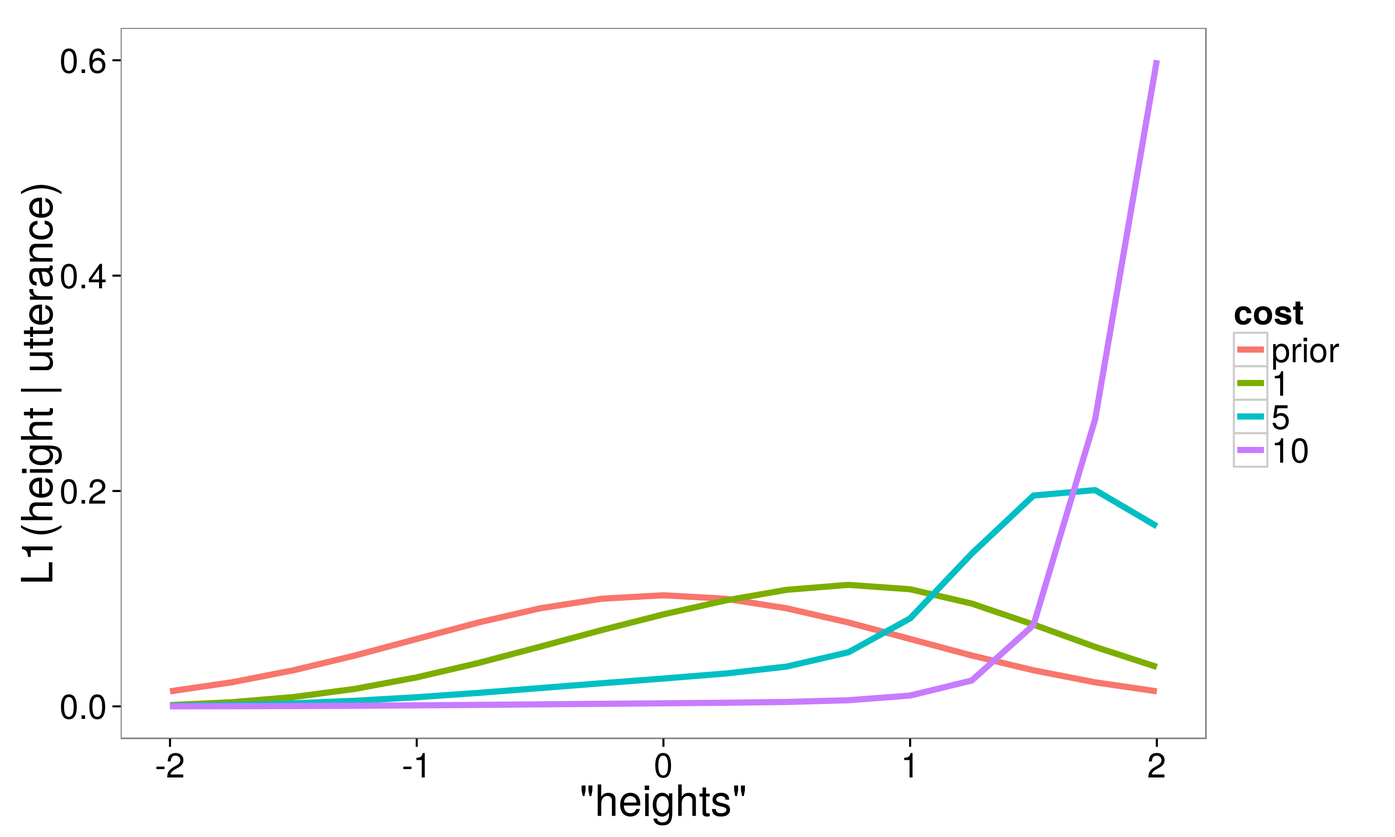
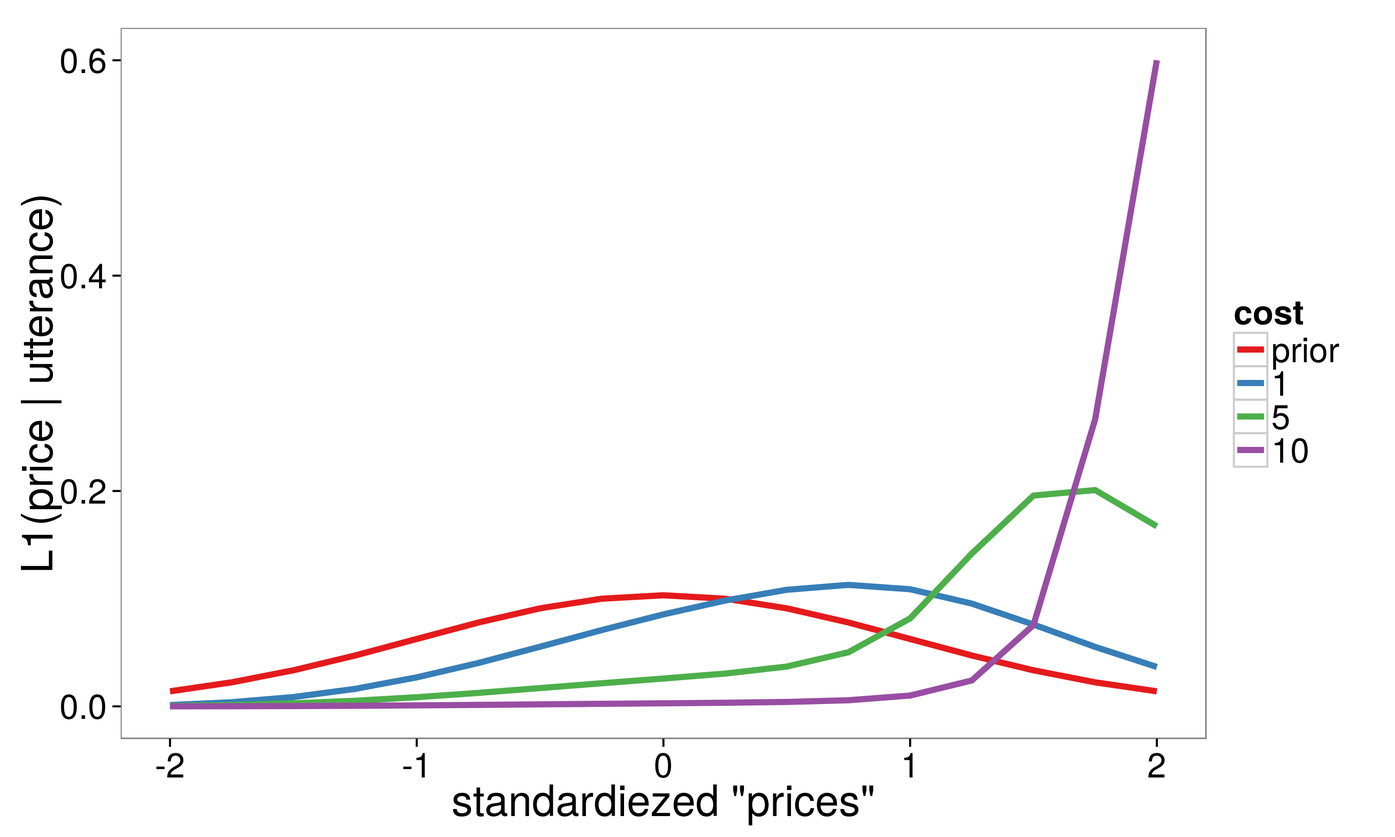
minor edits

diff --git a/writeup/intensifiers.tex b/writeup/intensifiers.tex
@@ -20,15 +20,6 @@
   Department of Psychology, Stanford University.}
   %450 Serra Mall , Stanford, CA 94305}
   
-%% focus more on the details of the different measures
-%% now it's about two correlational studies
-% corpus, elicitation, dependent measures
-% spend more time and flesh out more detail. especially the corpus stuff
-% talking about cost, different measures of cost
-%%% cite molly for length ~ frequency
-
-%%% can get rid of big long table if necessary
-  
 \begin{document}
 
 \maketitle
@@ -38,8 +29,10 @@
 We show how the wide range in strengths of intensifying degree adverbs (e.g.~\w{very} and \w{extremely}) could be explained by pragmatic inference based on differing cost, rather than differing semantics.
 This predicts a linear relationship between the meaning of intensifiers and their length and log-frequency.
 We test this prediction in two studies, using two different dependent measures, finding that higher cost does predict stronger meanings.
-We discuss the implications for adverbial meaning and the more general question of how extensive non-arbitrary form-meaning association may be in language.
-
+We discuss the implications for
+% what does this mean?
+adverbial meaning
+and the more general question of how extensive non-arbitrary form-meaning association may be in language.
 
 \textbf{Keywords:} 
 intensifiers; degree adverbs; scalar adjectives; pragmatics; m-implicature
@@ -48,7 +41,6 @@ intensifiers; degree adverbs; scalar adjectives; pragmatics; m-implicature
 \section{Introduction}
 
 How do different words get their meanings?
-%say something about the shared semantics and nuanced differences among members of the broad class of intensifiers at the outset
 For instance, why is an ``extremely good paper'' better than a ``quite good paper''? The traditional answer \cite{saussure} is that different meanings have been arbitrarily and conventionally assigned to the different word forms.
 This view has been challenged by a number of examples in which word meaning appears to be non-arbitrarily related to properties of the word.
 In some cases, the phonetic form of a word is systematically related to its meaning, for example rounded vowels and voiced consonants tend to refer to round objects \cite{maluma-takete, bouba-kiki, bouba-kiki2, takete-uloomo}. 
@@ -56,7 +48,7 @@ In other cases, orthographic form is diagnostic of meaning, for example, speaker
 Similarly, the length of words predicts aspects of their meanings: across languages longer words refer to more complex meanings \cite{lewis}.
 In this paper, we explore adjectival intensifiers\footnote{Intensifiers are adverbs that modify scalar adjectives to increase the degree. The word ``intensifier'' is often used to denote the full range of degree adverbs, be they ``amplifiers'', or ``downtoners'' \cite{quirk}. The ``intensifiers'' we are looking at in this paper are, according to this typology, ``amplifiers'' because they increase (rather than decrease) the threshold associated with a gradable predicate. This typology also distinguishes between two different kinds of amplifiers: those that increase an adjective maximally (e.g. \w{completely} and \w{utterly}) and those that merely increase (e.g. \w{greatly} and \w{terribly}). We do not make this distinction. The word ``intensifier'' is sometimes used for a completely different linguistic phenomenon, where a reflexive is used for emphasis, e.g. ``The king himself gave the command,'' which we do not analyze in this paper.}, like \w{extremely} and \w{quite},
 as a case study in which to empirically explore the relationship of meaning to factors like word form and distribution of usage.
-Intensifiers form a good case study both because they are amenable to simple quantitative measures of meaning (such as the numeric extent to which they shift the interpretation of a scalar adjective) and because theoretical considerations, which we lay out shortly, suggest a relationship between their meaning and their usage cost---frequency and length.
+Intensifiers form a good case study both because they are amenable to simple quantitative measures of meaning (such as the numeric extent to which they shift the interpretation of a scalar adjective) and because theoretical considerations, which we lay out shortly, suggest a relationship between their meaning and their usage cost (e.g., due to frequency and length).
 
 In the next section we start from the model presented by \citeA{lassiter} to explain the meaning of scalar adjectives, like \emph{tall} and \emph{expensive}. This probabilistic Rational Speech Acts \cite{frank,goodman} model describes how a threshold on meaning (e.g.~the minimum price that counts as an \emph{expensive watch}) can be established by pragmatic inference that takes into account statistical background knowledge (such as the distribution of prices for watches). We explore the effect of having multiple versions of the adjective that have the same meaning but different costs, and find a M(arkedness)-implicature \cite{levinson}: more marked (costly to utter) versions will be interpreted as implicating higher values.
 This motivates the hypothesis that a major portion of the meaning of intensifiers comes from this process rather than from conventionally associated meanings. Concretely, this predicts that the meanings of intensifiers are influenced by their form (in length) and their distribution (frequency) of usage. The impact of word length is reminiscent of the results of \citeA{lewis}, who studied noun categories. While word frequency is known to have major effects on sentence processing \cite[e.g.]{levy}, the prediction that frequency should affect meaning is more novel.
@@ -65,15 +57,14 @@ We confirm, in two experiments, that English intensifiers in adjective phrases a
 
 \section{The semantics of intensifying degree adverbs}
 
-Our paper focuses on intensifying degree adverbs applied to scalar adjectives\footnote{Some of these intensifiers can also apply to verbal and nominal predicates, and different restrictions apply for different intensifiers, e.g. \w{I truly like carrots} is an acceptable utterance, whereas \w{I very like carrots} is not. See \citeA{bolinger} for a discussion.}. Scalar adjectives have been described as having a threshold semantics \cite{kennedy}, where, for example, \w{tall} means ``having a height greater than $\theta$'' and $\theta$ is a semantic variable inferred from context (e.g., six feet). Above the threshold degree $\theta$, the adjective is true of an object, and below, the adjective is false.
-\citeA{lassiter} give a formal model of how this threshold might be inferred, which we extend to intensifiers.
+Our paper focuses on intensifying degree adverbs applied to scalar adjectives\footnote{Some of these intensifiers can also apply to verbal and nominal predicates, and different restrictions apply for different intensifiers, e.g. \w{I truly like carrots} is an acceptable utterance, whereas \w{I very like carrots} is not. See \citeA{bolinger} for a discussion.}. Scalar adjectives have been described as having a threshold semantics \cite{kennedy}, where, for example, \w{expensive} means ``having a price greater than \$$\theta$'' and $\theta$ is a semantic variable inferred from context (e.g., \$100). Above the threshold degree $\theta$, the adjective is true of an object, and below, the adjective is false.
+\citeA{lassiter} give a formal model of how this threshold might be inferred for a particular context, which we extend to intensifiers.
 
 \subsection{Background}
-Previous researchers have proposed that adjective phrases modified by intensifiers have the same semantics as unmodified adjective phrases, except with new, higher thresholds \cite{kennedyMcnally, klein, wheeler}. That is, some threshold, inferred from context, exists above which objects are \w{tall} and below which they are not, and the intensifier \w{very} determines a new, higher threshold for \w{very tall}.
-They suggest that the intensified thresholds are determined by first collecting the set of objects in the comparison class class for which the bare adjective is true, and then using that as the comparison class to infer a new threshold, i.e. \w{very expensive laptop} means ``expensive for an expensive laptop''. This analysis results in the expected intensification of adjectives (``tall, even among tall basketball players'' has a higher threshold for being true than simply ``tall for a basketball player'') and is appropriately sensitive to different domains (e.g. the absolute difference in height between thresholds for \w{tall} and \w{very tall} is much higher in the context of ``This building is very tall,'' than in the context of ``This coffee mug is very tall.'').
-However, this account does not, in and of itself, distinguish between the graded strengths of different intensifiers, for example, \w{very tall} and \w{phenomenally tall}.
+Previous researchers have proposed that adjective phrases modified by intensifiers have the same semantics as unmodified adjective phrases, except with new, higher thresholds \cite{kennedyMcnally, klein, wheeler}. That is, some threshold, inferred from context, exists above which objects are \w{expensive} and below which they are not, and the intensifier \w{very} determines a new, higher threshold for \w{very expensive}.
+They suggest that the intensified thresholds are determined by first collecting the set of objects in the comparison class class for which the bare adjective is true, and then using that as the comparison class to infer a new threshold, i.e. \w{very expensive laptop} means ``expensive for an expensive laptop''. This analysis results in the expected intensification of adjectives (``expensive, even among expensive laptops'' has a higher threshold for being true than simply ``expensive for a laptop'') and is appropriately sensitive to different domains (e.g. the absolute difference in price between thresholds for \w{expensive} and \w{very expensive} is much higher in the context of ``That space station is very expensive,'' than in the context of ``That coffee is very expensive.'').
+However, this account does not, in and of itself, distinguish between the graded strengths of different intensifiers, for example, \w{very expensive} and \w{phenomenally expensive}.
 
-%long, complex, and rare
 Intuition suggests that different intensifiers do have different strengths (e.g. \w{outrageously} seems stronger than \w{quite}), and we provide further evidence of this in our experiments, where participants interperet and compare different intensifiers.
 It could be that the degree of strength of different intensifiers is conventionally specified by the lexicon. But the semantics must then specify how these entries affect the very flexible threshold of the relevant adjective.
 In addition, the multitude of intensifiers \cite{bolinger} and their apparent productivity\footnote{For example, \w{altitidinously expensive} is not in common usage, but one can easily interpret \w{altitidinously} as a novel intensifier.} suggest a more parsimonious solution would be welcome. 
@@ -86,10 +77,11 @@ We show that simply having different thresholds for different adjective phrases-
 
 \subsection{Model}
 
-\citeA{lassiter}'s model belongs to the family of Rational Speech Act (RSA) models in which speaker and listener communicate by recursively reasoning about each other's goals and inferences. These models have been shown to account for many phenomena in pragmatics \cite{frank, goodman}. The adjective movel model accounts for uncertainty about the adjectival threshold by including a lifted semantic variable, which the pragmatic listener infers at the same time that she infers the speaker's intended meaning. 
-We assume every adjective phrase has its own such variable $\theta_i$\footnote{Other versions of this model could easily be imagined in which the threshold for an adjective phrase is determined by the basic threshold for the adjective and some transformation on that threshold (e.g. multiplication, addition, etc.) caused by the intensifier. If the transformation is mostly regular, with a single parameter needing to be inferred for each intensifier, and if the values of these parameters are inferred for each adjective phrase, then such a model would be functionally equivalent to the one we describe here.}, together notated $\vec{\theta}$, but to otherwise mean the same thing, so that, for example, \w{tall}, \w{very tall} and \w{phenomenally tall} all denote: $\lambda x . \text{height}(x) > \theta_i$.
+\citeA{lassiter}'s model belongs to the family of Rational Speech Act (RSA) models in which speaker and listener communicate by recursively reasoning about each other's goals and inferences. These models have been shown to account for many phenomena in pragmatics
+\cite{frank, goodman}. The adjective model accounts for uncertainty about the adjectival threshold by including a lifted semantic variable, which the pragmatic listener infers at the same time that she infers the speaker's intended meaning. 
+We assume every adjective phrase has its own such variable $\theta_i$\footnote{Other versions of this model could easily be imagined in which the threshold for an adjective phrase is determined by the basic threshold for the adjective and some transformation on that threshold (e.g. multiplication, addition, etc.) caused by the intensifier. If the transformation is mostly regular, with a single parameter needing to be inferred for each intensifier, and if the values of these parameters are inferred for each adjective phrase, then such a model would be functionally equivalent to the one we describe here.}, together notated $\vec{\theta}$, but to otherwise mean the same thing, so that, for example, \w{expensive}, \w{very expensive} and \w{phenomenally expensive} all denote: $\lambda x . \text{price}(x) > \theta_i$. %unpack?
 
-Given an utterance $u_i$ (e.g. a \w{tall girl} or a \w{very tall girl}) and a set of thresholds, a literal listener $L_0$ will use Bayesian inference to update their prior beliefs $P(d)$ about the degree $d$ (e.g. the girl's height) given that the degree is greater than the threshold for that utterance.
+Given an utterance $u_i$ (e.g. a \w{expensive laptoop} or a \w{very expensive laptop}) and a set of thresholds, a literal listener $L_0$ will use Bayesian inference to update his prior beliefs $P(d)$ about the degree $d$ (e.g. the laptop's price) given that the degree is greater than the threshold for that utterance.
 
 $$P_{L_0}(d|u_i, \theta_i) \propto P(d) \cdot \delta_{d > \theta_i}$$
 
@@ -97,7 +89,7 @@ A speaker with the goal of communicating some actual degree $d$ assigns a utilit
 
 $$\mathbb{U}(u_i | d, \vec{\theta}) =  \ln\left(P_{L_0}(d | u_i, \theta_i) \right) - C(u_i) $$
 
-Given a set of alternative utterances (e.g. the speaker might be choosing between saying \w{very tall} as opposed to \w{tall} or \w{extremely tall}, or saying nothing at all), the speaker $S_1$ will choose utterances according to a softmax decision rule \cite{sutton} with optimality parameter $\lambda$, so that:
+Given a set of alternative utterances (e.g. the speaker might be choosing between saying \w{very expensive} as opposed to \w{expensive} or \w{extremely expensive}, or saying nothing at all), the speaker $S_1$ will choose utterances according to a softmax decision rule \cite{sutton} with optimality parameter $\lambda$, so that:
 
 $$ P_{S_1}(u_i | d, \vec{\theta}) \propto e^{\lambda \mathbb{U}(u_i | d, \vec{\theta})} $$
 
@@ -105,10 +97,10 @@ A pragmatic listener $L_1$ uses the prior probability, $P(d)$, of different degr
 
 $$ P_{L_1}(d, \vec{\theta} | u_i) \propto P(d) \cdot P_{S_1}(u_i | d, \vec{\theta}) $$
 
-As an initial exploration, we simulated such a model with three alternative adjective phrases (i.e.~three intensifiers) with costs of $1$, $5$, and $10$. We also included a null utterance, with trivial meaning (always true) and cost of $0$. The prior distribution for this domain (which we will discuss as ``heights'' for concreteness) was a gaussian peaked at $0$.
+As an initial exploration, we simulated such a model with three alternative adjective phrases (i.e.~three intensifiers) with costs of $1$, $5$, and $10$. We also included a null utterance, with trivial meaning (always true) and cost of $0$. The prior distribution of degrees along this adjective's scale (which we will discuss as ``prices'' for concreteness and consistency with our Experiment 1) was a gaussian peaked at $0$.
 We used an optimality parameter of $\lambda=5$ in our simulation. 
 
-Though the literal semantics are identical (except that they have different threshold parameters), the different phrases received different interpretations: the more costly intensifiers corresponded to less probable, more extreme heights (Figure ~\ref{model}). This can be seen as an M-implicature: more costly intensifiers are assigned strong, less probable, meanings. 
+Though the literal semantics are identical (except that they have different threshold parameters), the different phrases received different interpretations: the more costly intensifiers corresponded to less probable, more extreme prices (Figure ~\ref{model}). This can be seen as an M-implicature: more costly intensifiers are assigned strong, less probable, meanings. 
 The model therefore predicts an association between intensifier meaning and utterance cost.
 
 \begin{figure}[ht]
@@ -119,59 +111,47 @@ The model therefore predicts an association between intensifier meaning and utte
 \label{model}
 \end{figure}
 
-% 
-% %%%%% make this clearer
-% \subsection{Limitations of these methods}
-% It should be noted that, since this is a correlational study, finding such a relationship would not confirm that an intensifier's cost \emph{actually causes} its meaning. This correlation is predicted by the model sketched above, but it might be predicted by a variety of other analyses of intensifiers and their meanings. Rarity in particular might be correlated with strength of meaning merely because more extreme meanings refer to less probable situations in the world, are talked about less, and therefore the words with those meanings will necessarily be rarer.
-% \todo{maybe people talk about more suprising things more anyway?}
-% \todo{maybe syllables are a reason not to be worried about this?}
-% %Although it seems reasonable to suspect that word frequencies reflect the probabilities of the real-world concepts they describe, it might also be the case that improbable things are more likely to be commented on, and so to a certain extent the frequencies of words that describe rare concepts will be inflated. Even so, this confound exists only for word frequency and not for syllable length.
-% %citation?
-% %The length of a word seems much less likely to reflect the real-word prevalence of the concept it refers to.
 \subsection{Factors affecting utterance cost}
 
-We have identified the intensifier's cost, $C(u_{i})$, as a potentially critical factor of its interpreted meaning. The quantitative form predicted by the model of the relationship between cost and meaning is a approximately linear, as can be read off Figure \ref{model-heights}.
+We have identified the intensifier's cost, $C(u_{i})$, as a potentially critical factor of its interpreted meaning. The quantitative form predicted by the model of the relationship between cost and meaning is a approximately linear, as can be read off Figure \ref{model-heights}\footnote{This second simulation was identical as the first, except run on a more discretized scale for 6 different utterance costs (or ``intensifiers'').}.
 
 To connect this linear prediction to empirical facts, we still must specify (at least a subset of) the factors we expect to impact cost.
-%
-The most natural notion of cost is the effort a speaker incurs to produce an utterance. This could include cognitive effort to access lexical items from memory, articulatory effort to produce the sound forms, and other such ``direct'' costs. Speakers might also seek to minimize comprehension cost for their listeners, resulting in other contributions to cost. 
-For the purposes of this paper, we restrict to the most straightforward contributors to production cost and use proxies that are straightforward to quantify: length (longer utterances are more costly)
-\footnote{We measure length in number of syllables, although length in characters (which might be a relevant source of utterance cost in a written format, as our partipants experienced) has similar predictive power to syllable length in all of our analyses.}
+The most natural notion of cost is the effort a speaker incurs to produce an utterance. This could include cognitive effort to access lexical items from memory, articulatory effort to produce 
+the sound forms, and other such direct costs.
+Speakers might also seek to minimize comprehension cost for their listeners, resulting in other contributions to cost. 
+For the purposes of this paper, we restrict to the most
+straightforward contributors to production cost and use proxies that are straightforward to quantify: length (longer utterances are more costly)
+\footnote{We measure length in number of syllables, although length in characters (which might be a relevant source of utterance cost in a written format, as our experiments were in) has similar predictive power to syllable length in all of our analyses.}
 and frequency (rarer intensifiers are harder to access and therefore more costly).
 In a number of different tasks, lexical frequency affects difficulty in an approximately logarithmic way. For instance word recognition time \cite{McCusker1977} 
-%McCusker, L. M. (1977, April). Some determinants of word recognition: Frequency.Paper presented at the 24th Annual Convention of the Southwestern Psychological Association, Fort Worth, TX.
 and reading time in context \cite{smithLevy} are both logarithmic in frequency. We thus use the log-frequency (whose negative is also called \emph{surprisal}) as the quantitative contribution to cost.
 
 We thus predict  a linear contribution of longer and higher surprisal intensifiers to the meaning. 
-This leaves open the the relative importance of length and surprisal, an potential interactions (as well as other factors that might enter into cost), which can be explored via regression models.
+This leaves open the the relative importance of length and surprisal, and potential interactions (as well as other factors that might enter into cost), which can be explored via regression models.
 
 
 \begin{figure}[ht]
 \begin{center}
 \includegraphics[width=0.4\textwidth]{analysis_files_for_writeup/images/height-by-cost.png}
 \end{center}
-\caption{Model prediction of expected height as cost of intensifier increases, based on intensifiers evenly spaced in cost. The relationship is approximately linear.} 
+\caption{Model prediction of expected price as cost of intensifier increases, based on intensifiers evenly spaced in cost. The relationship is approximately linear.} 
 \label{model-heights}
 \end{figure}
 
-% ## Expt. 1
 \section{Experiment 1}
 
-The proposal detailed above predicts an association between measures of cost and strength of interpretations. In Experiment 1, we test this qualitative prediction %, and look at whether the cost associated with different intensifiers can predict their interpretations.
-by eliciting free response price estimates from people and determining whether these prices are correlated with independent measures of utterance cost.
+The proposal detailed above predicts an association between measures of cost and strength of interpretations. In Experiment 1, we test this qualitative prediction
+by eliciting free response price estimates from people and determining whether these prices are correlated with our independent measures of utterance cost.
 
-% - design and materials
 \subsection{Method\footnote{The full experiment can be found at \url{http://web.stanford.edu/~erindb/degree-adverbs/experiments/exp5_2014-12-01/exp5.html}.}}
 
 40 participants with US IP addresses were recruited through Amazon's Mechanical Turk and paid \$0.40 for their participation.
 
 We asked participants to estimate the prices of different objects based on different descriptions of those objects. The descriptions included intensifiers paired with the adjective \w{expensive} (Figure~\ref{exp1-q}).
 There were three categories of objects (\emph{laptop}, \emph{watch}, and \emph{coffee maker}) and 40 intensifiers (see Table~\ref{exp1-intensifiers}).
-%\todo{be more explicit about how we chose these.}
 We chose intensifiers that have a wide range of frequencies and excluded intensifiers that are either more commonly used to signal affect than to signal degree (e.g. ``depressingly expensive'' might indicate a degree, but it mainly indicates affect) or are ambiguous between other parts of speech (e.g. ``super'' can be used as an intensifier, as in ``super expensive'', but it can also be used as an adjective, as in ``super hero'').
-Each particpant gave price judgments for every intensifier-category pairing in a randomized order (different for different participants), for a total of 120 price judgments.
-We chose the domain of price and used only the adjective \w{expensive} because price constitutes a quantitative scale on which to measure the different intensifers.% and because we thought participants would have similar enough experience with the distributions over prices for these objects.
-% come to think of it, we chose those exact objects because we thought they might have bimodal priors. possibly in future experiments where the analysis would be easier if people had the same distribution as one another, we should go to something that people purchase more frequently with less ambiguity about ``what kind''... like milk, or shampoo...?
+Each particpant gave price judgments for every intensifier-category pairing in a randomized order (different for different participants), for a total of 120 price judgments per participant.
+We chose the domain of price and used only the adjective \w{expensive} because price constitutes a quantitative scale with standard units (dollars for our US participants) on which to measure the different intensifers.
 
 \begin{figure}[ht]
 \begin{center}
@@ -235,23 +215,18 @@ We chose the domain of price and used only the adjective \w{expensive} because p
 \end{table}
 
 \subsubsection{Corpus Methods}
-%maybe have this a separate section? maybe not?
 
-Table~\ref{exp1-intensifiers} shows word length in syllables and frequency for the intensifiers used in the experiment.
+Table~\ref{exp1-intensifiers} shows word frequency and length in syllables for the intensifiers used in the experiment.
 The frequencies were collected from the Google Web 1T 5-grams database \cite{web1t5gram}\footnote{
 We also ran the same analyses on frequency information collected from the Google Books American Ngrams Corpus \cite{books2011} and found similar results.
-%We also ran the analyses from this paper using the bigram frequencies of \w{[intensifer] expensive} rather than the unigram frequencies of the intensifiers alone. These data were much more sparse. For bigrams, we found no significant effects of surprisal using the books database and a negative effect using the web database. We think the lack of replication of our finding in bigrams is probably a result of the bigrams data being much more sparse.
 }
-%For all of the analyses that follow, we use \w{surprisal} or \w{self-information}, defined as the negative log probability of a word in the corpus, as the utterance cost measure. We do this so that our correlations for both utterance cost measures will be positive (if our findings are consistent with our hypothesis) and because \todo{ndg: reasons}. 
 In the analysis below we use word length and word surprisal (negative log-frequency) as proxies for a word's cost, as motivated above.
 The syllable lengths of our intensifiers and the surprisals %\todo[inline]{say what surprisal is and why we care before using it.} 
 were correlated, but not strongly so (r = 0.27).
 
-% - results and discussion
 \subsection{Results and Discussion}
 
-%         - as cost increases, meaning becomes more extreme
-If the meaning of an intensifier is stronger for higher cost intensifiers, we would expect to find that as frequency decreases and length in syllables increases, the prices participants give will also increase. We find that this is the case.
+If the meaning of an intensifier is stronger for higher cost intensifiers, we would expect to find that as surprisal increases and length in syllables increases, the prices participants give will also increase. We find that this is the case.
 %% what's the alternative hypothesis?
 
 \begin{figure*}[ht]
@@ -262,8 +237,6 @@ If the meaning of an intensifier is stronger for higher cost intensifiers, we wo
 \label{exp1-plot}
 \end{figure*}
 
-%%explain the main effects and the interaction: eg “we found significant main effects of surprisal and syllable length, such that more surprising and longer words were rated as more expensive”
-%%integrate this last paragraph into the reporting of effects along the lines sketched above
 We ran a linear mixed effects regression with centered fixed effects of syllables, surprisal, and their interaction, and random intercepts and slopes for syllables and surprisal for both participant and object.
 %anything more complicated won't converge
 % Fixed effects:
@@ -272,24 +245,22 @@ We ran a linear mixed effects regression with centered fixed effects of syllable
 % c.surprisal             5.365e-02  9.349e-03 3.000e+00   5.739 0.011874 *  
 % c.syllables             9.311e-02  1.821e-02 5.000e+00   5.112 0.004134 ** 
 % c.surprisal:c.syllables 1.931e-02  5.149e-03 3.533e+03   3.750 0.000179 ***
-Our results are shown in Figure~\ref{exp1-plot}. Both measures of cost play a role in predicting participants' price estimates. We found a significant main effects of surprisal ($\beta=0.0537, SE=0.00935, t(3)=5.74, p<0.05$) such that less frequent words tend to be associated with higher price estimates. We also found a significant main effect of syllable length ($\beta=0.0931, SE=0.0182, t(5)=5.112, p<0.005$), above and beyond surprisal, so that longer words predict stronger meanings. We also found a significant interaction ($\beta=0.0193, SE=0.00515, t(3.5)=3.75, p<0.0005$) between surprisal and syllable length, wich may indicate that the relationship between the two predictors of cost is not simply additive, but rather having multiple sources of communicative cost (i.e. length and surprisal) might increase the implicature even more.
+Our results are shown in Figure~\ref{exp1-plot}. Both measures of cost play a role in predicting participants' price estimates. We found a significant main effects of surprisal ($\beta=0.0537, SE=0.00935, t(3)=5.74, p<0.05$) such that less frequent words tend to be associated with higher price estimates. We also found a significant main effect of syllable length ($\beta=0.0931, SE=0.0182, t(5)=5.112, p<0.005$), above and beyond surprisal, such that longer words predict stronger meanings. We also found a significant interaction ($\beta=0.0193, SE=0.00515, t(3.5)=3.75, p<0.0005$) between surprisal and syllable length, wich may indicate that the relationship between the two predictors of cost is not simply additive, and that having multiple sources of communicative cost (i.e. length and surprisal) might increase the implicature even more.
 
 Thus intensifiers that are less frequent and longer (and therefore are more costly to utter) also tend to be interpreted as having stronger meanings, at least when used to modify \emph{expensive}. Furthermore, the relationship appears to be linear in surprisal and length (though with an interaction), as predicted.
 This is consistent with the M-implicature model introduced above.
 
 \section{Experiment 2}
 
-%why is exp. 2 necessary? motivate in one sentence. and how does this relate to the different dependent measure?
-The M-implicature account described above implies that there is no semantic interaction between the intensifier and the adjective it is applied to. Instead an intensifier should contribute similar cost, and therefore meaning, to the different adjectival phrases in which it occurs\footnote{If the bigram frequency of the modified adjective (``very tall'') deviated from that expected based on independent word frequencies our frequency-based cost account would predict an interactive effect on meaning. However, this would be a relatively small effect, and the relevant bigrams were too sparse in our corpora to test it.}.
+The M-implicature account described above implies that there is no semantic interaction between the intensifier and the adjective it is applied to. Instead an intensifier should contribute similar cost, and therefore meaning, to the different adjectival phrases in which it occurs\footnote{If the bigram frequency of the modified adjective (``very expensive'') deviated from that expected based on independent word frequencies our frequency-based cost account would predict an interactive effect on meaning. However, this would be a relatively small effect, and the relevant bigrams were too sparse in our corpora to test it.}.
 To explore this issue, we would like to extend our results to additional adjectival scales. However, most scales are not so easily quantifiable as price; we require a different dependent measure in order to probe them.
 For Experiment 2 we used a forced-ranking dependent measure, which allows us to consider additional adjectival scales. This dependent measure has the added benefit of providing a more sensitive measure of the differences in degrees between similar adjectival phrases.
 
-\subsection{Method\footnote{The full experiment can be found at \url{http://web.stanford.edu/~erindb/degree-adverbs/experiments/exp4/exp4.html}}}
+\subsection{Method\footnote{The full experiment can be found at \url{http://web.stanford.edu/~erindb/degree-adverbs/experiments/exp4_2014-11-26/exp4.html}}}
 
 30 participants with US IP addresses were recruited through Amazon's Mechanical Turk and paid \$0.40 for their participation.
 
-%%%% ????
-We asked participants to arrange (by clicking and dragging) various adjective phrases with the same adjective but different intensifiers into some order from strongest to weakest. Because this required participants to be aware of the full set of adjective phrases and access all of them on the same computer screen (which might vary in size for different participants), not all of our 40 intensifiers could effectively be presented at once. We divided the 40 intensifiers from Experiment 1 into four lists of 10 intensifiers each. 
+We asked participants to order (by clicking and dragging) various adjective phrases with the same adjective but different intensifiers according to strength of meaning. Because arranging these phrases required participants to be aware of the full set of adjective phrases and access all of them on the same computer screen (which might vary in size for different participants), not all of our 40 intensifiers could effectively be presented at once. We divided the 40 intensifiers from Experiment 1 into four lists of 10 intensifiers. 
 %(Table~\ref{exp2-intensifiers}).
 Each list was randomly paired with one of four adjectives (\w{old}, \w{expensive}, \w{beautiful}, and \w{tall}).
 For each adjective-list pairing, participants were shown every combination of the 10 intensifiers with one adjective.
@@ -338,12 +309,11 @@ The division of the intensifiers into lists of 10 was constant, so that the same
 % c.surprisal              0.31871746 0.02471029  12.8981699  4.609137e-38
 % c.syllables              0.43704201 0.06580015   6.6419605  3.095379e-11
 % c.surprisal:c.syllables  0.04097697 0.02360147   1.7362040  8.252777e-02
-
 Our results for Experiment 2 are shown in Figure~\ref{exp2-plot}. We ran an ordinal
 regression with centered surprisal and syllable lengths and their interaction as fixed effects.
-We again found strong main effects of surprisal ($\beta=0.319, SE=0.0247, t=12.9, p<5e-38$) and syllable length ($\beta=0.437, SE=0.0658, t=6.64, p<5e-11$), with only a trending interaction ($p=0.0825$).
+As in Experiment 1, we found strong main effects of surprisal ($\beta=0.319, SE=0.0247, t=12.9, p<5e-38$) and syllable length ($\beta=0.437, SE=0.0658, t=6.64, p<5e-11$), with only a trending interaction ($p=0.0825$).
 In other words, we again found that participants assign stronger interpretations to intensifiers with higher surprisals and/or higher syllable lengths, extending now across four different adjectival scales.
-%\todo{could say something more about these results? interaction between intensifier and adjective?}
+%could say something more about these results? interaction between intensifier and adjective?
 
 \begin{figure*}[ht]
 \begin{center}
@@ -355,11 +325,13 @@ In other words, we again found that participants assign stronger interpretations
 
 \section{General Discussion}
 
-Motivated by a recent probabilistic model of scalar adjectives \cite{lassiter}, we showed how adjectival intensifiers could potentially get their meaning through a pragmatic M-implicature, despite having vacuous literal meaning. Our model predicted a linear relationship between the intensity of an intensifier and its cost, measured here in terms of length and log-frequency.
+Motivated by a recent probabilistic model of scalar adjectives \cite{lassiter}, we showed how adjectival intensifiers could potentially get their meaning through a pragmatic M-implicature, despite having vacuous literal meaning to add to an adjective. Our model predicted a linear relationship between the intensity of an intensifier and its cost, measured here in terms of length and log-frequency.
 In two experiments we provided evidence that intensifier meanings do depend systematically on the length and frequency of distribution of those word forms.
 While it is unlikely that this accounts for all intensifier meaning, it does suggest that a major portion of meaning comes not from arbitrary, conventional association of signal to sign \cite{saussure}, but from features of the word's form and distribution.
 
-It should be noted that, since this is a correlational study, such a relationship does not confirm that an intensifier's cost \emph{causes} it to have a given meaning. This correlation is predicted by the model sketched above, but it might be predicted by other analyses of intensifiers and their meanings. Rarity in particular might be correlated with strength of meaning merely because more extreme meanings refer to less probable things in the world, are therefore talked about less, and therefore the words with those meanings will necessarily be rarer. Although it seems reasonable to suspect that word frequencies reflect the probabilities of the real-world concepts they describe, it might also be the case that improbable things are more likely to be commented on, and so to a certain extent the frequencies of words that describe rare concepts will be inflated. Even so, this confound exists only for word frequency and not for syllable length.
+It should be noted that, since this is a correlational study, such a relationship does not confirm that an intensifier's cost \emph{causes} it to have a given meaning. This correlation is predicted by the model sketched above, but it might be predicted by other analyses of intensifiers and their meanings. Rarity in particular might be correlated with strength of meaning merely because more extreme meanings refer to less probable things in the world, are therefore talked about less, and therefore the words with those meanings will necessarily be rarer.
+%% this next bit is sketch
+Although it seems reasonable to suspect that word frequencies reflect the probabilities of the real-world concepts they describe, it might also be the case that improbable things are more likely to be commented on, and so to a certain extent the frequencies of words that describe rare concepts will be inflated. Even so, this confound exists only for word frequency and not for syllable length.
 %citation?
 The length of a word seems much less likely to reflect the real-word prevalence of the concept it refers to.
 
